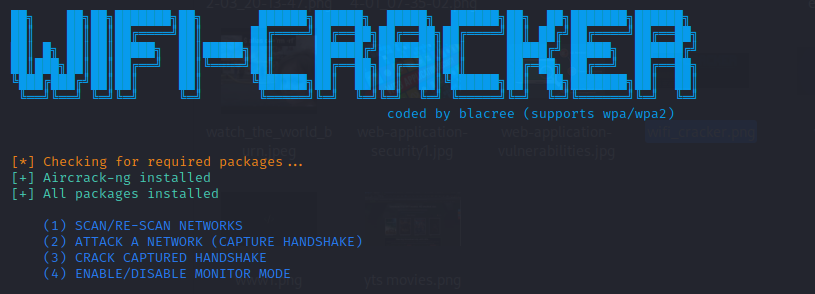
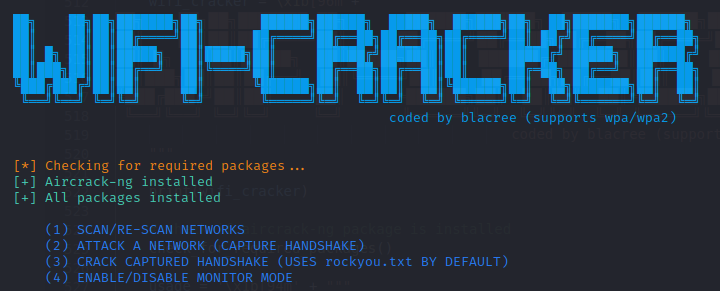
modified options and screenshot

Changed region(s): [[0.0, 0.0309, 0.9778, 0.433], [0.0306, 0.7423, 0.7028, 0.9897], [0.0, 0.5258, 0.3972, 0.7113]]

diff --git a/wifi_cracker.py b/wifi_cracker.py
@@ -527,7 +527,7 @@ def main():
     usage = '\x1b[94m' + """
     (1) SCAN/RE-SCAN NETWORKS
     (2) ATTACK A NETWORK (CAPTURE HANDSHAKE)
-    (3) CRACK CAPTURED HANDSHAKE
+    (3) CRACK CAPTURED HANDSHAKE (USES rockyou.txt BY DEFAULT)
     (4) ENABLE/DISABLE MONITOR MODE"""
     print(usage)
 
